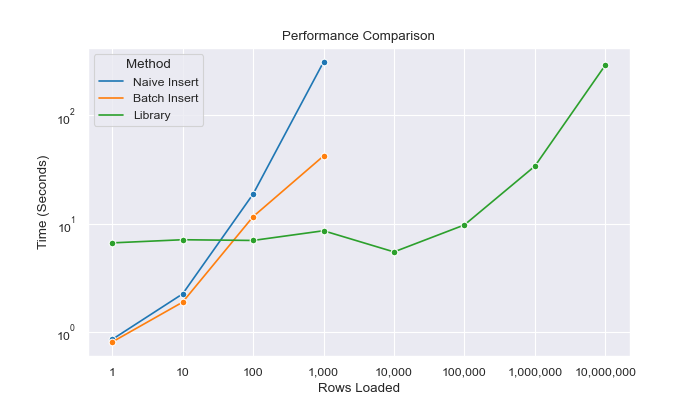
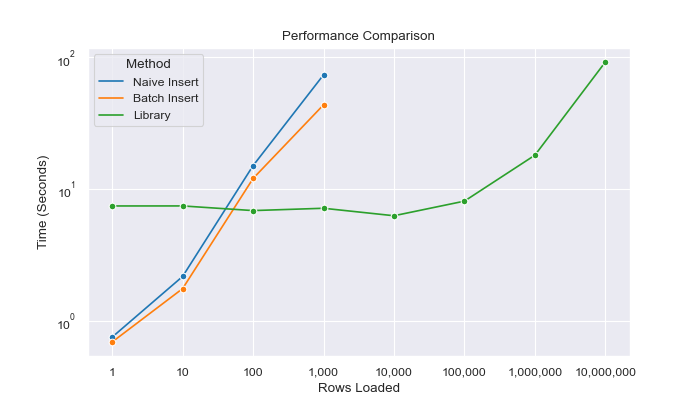
getting average time from timeit now

diff --git a/tests/performance/base.py b/tests/performance/base.py
@@ -111,19 +111,12 @@ def test_method(args):
         "rows": row_count,
         "time": timeit.timeit(
             functools.partial(method, data, table_name), number=number
-        ),
+        )
+        / number,  # timeit returns the total time taken, so we need to divide to get average
         "method": pretty(method),
     }
     print(row_count, method.__name__, "finished")
     return ret
-
-
-print(
-    timeit.timeit(
-        functools.partial(library, [10 ** x for x in range(POWERS_CHECKED)], "test4")
-    )
-)
-exit()
 
 
 def main():
